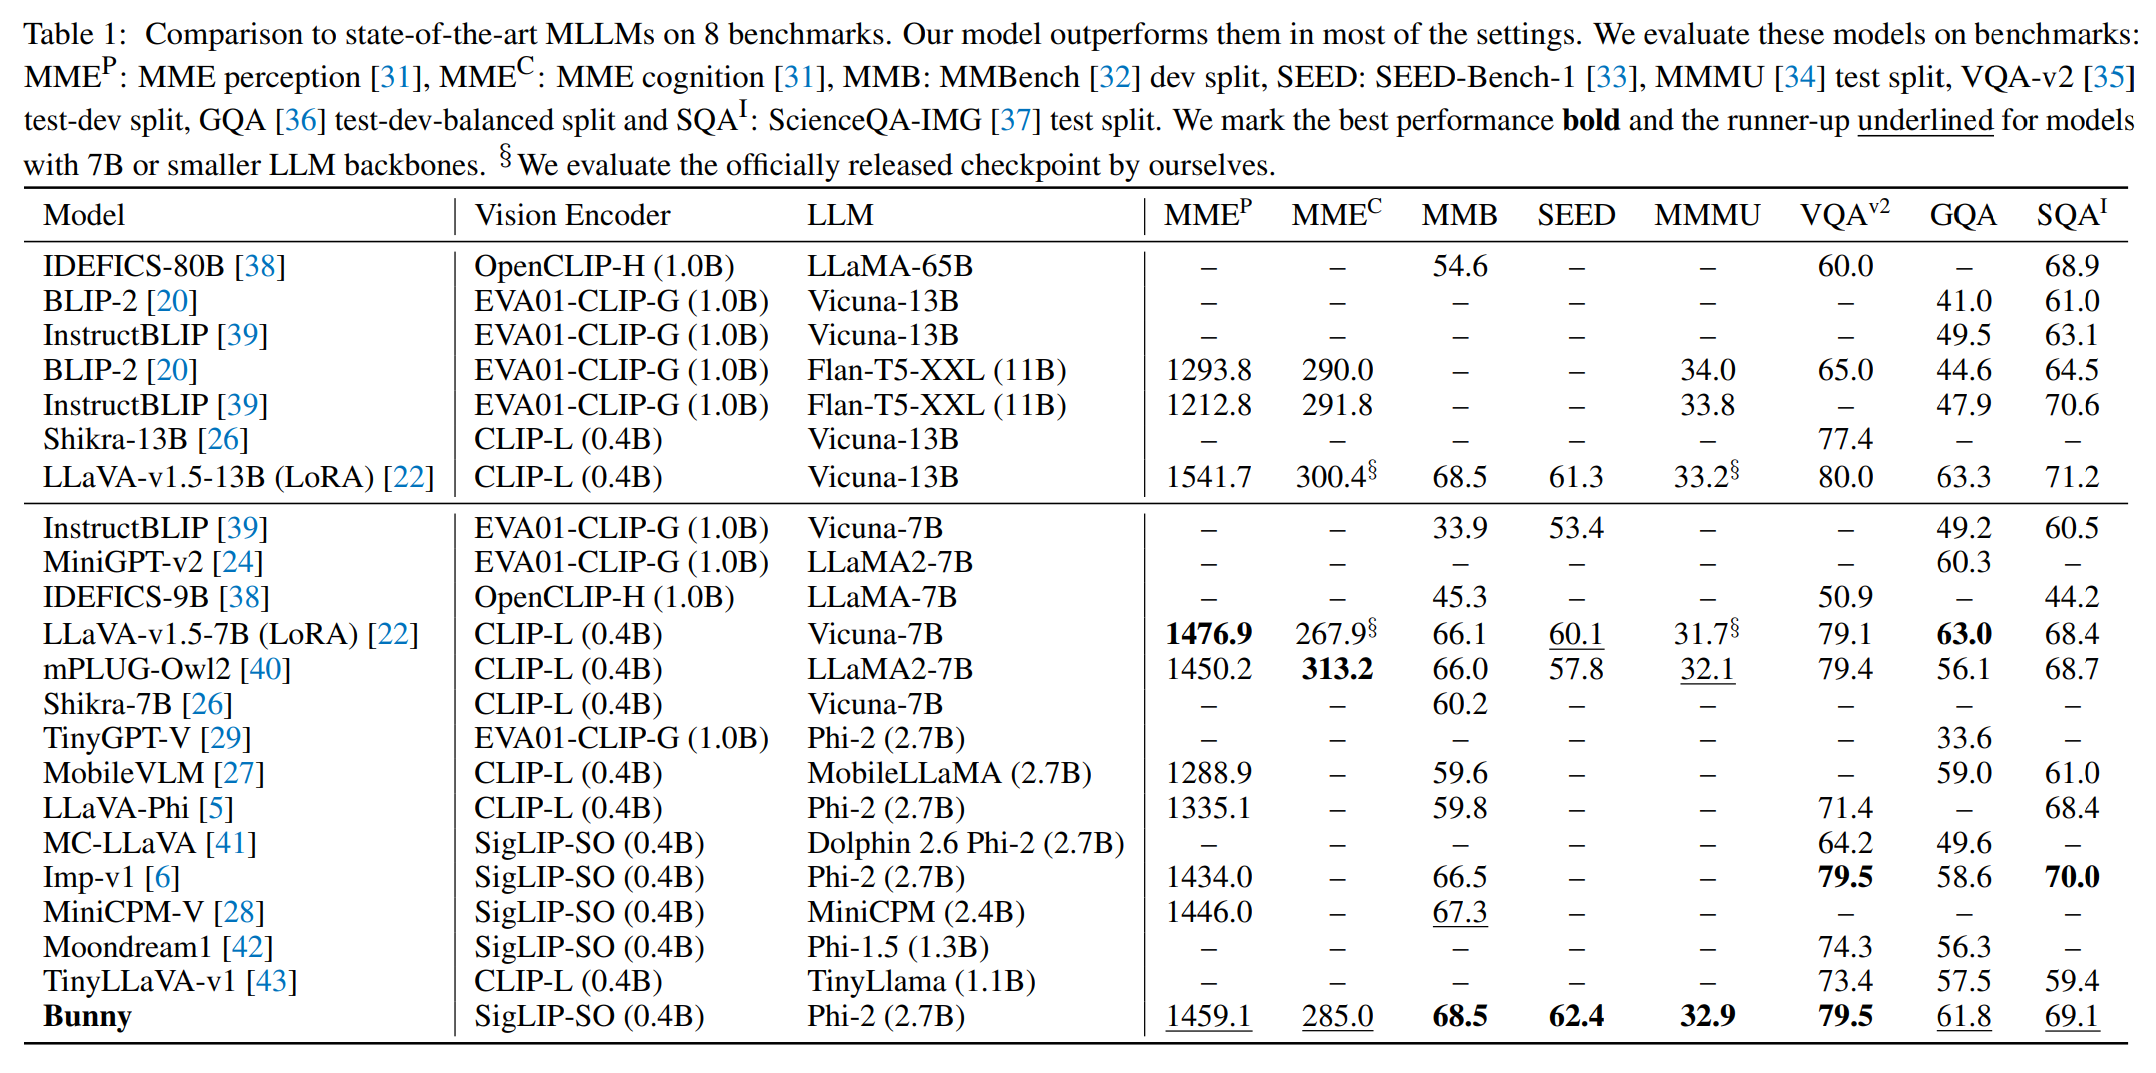
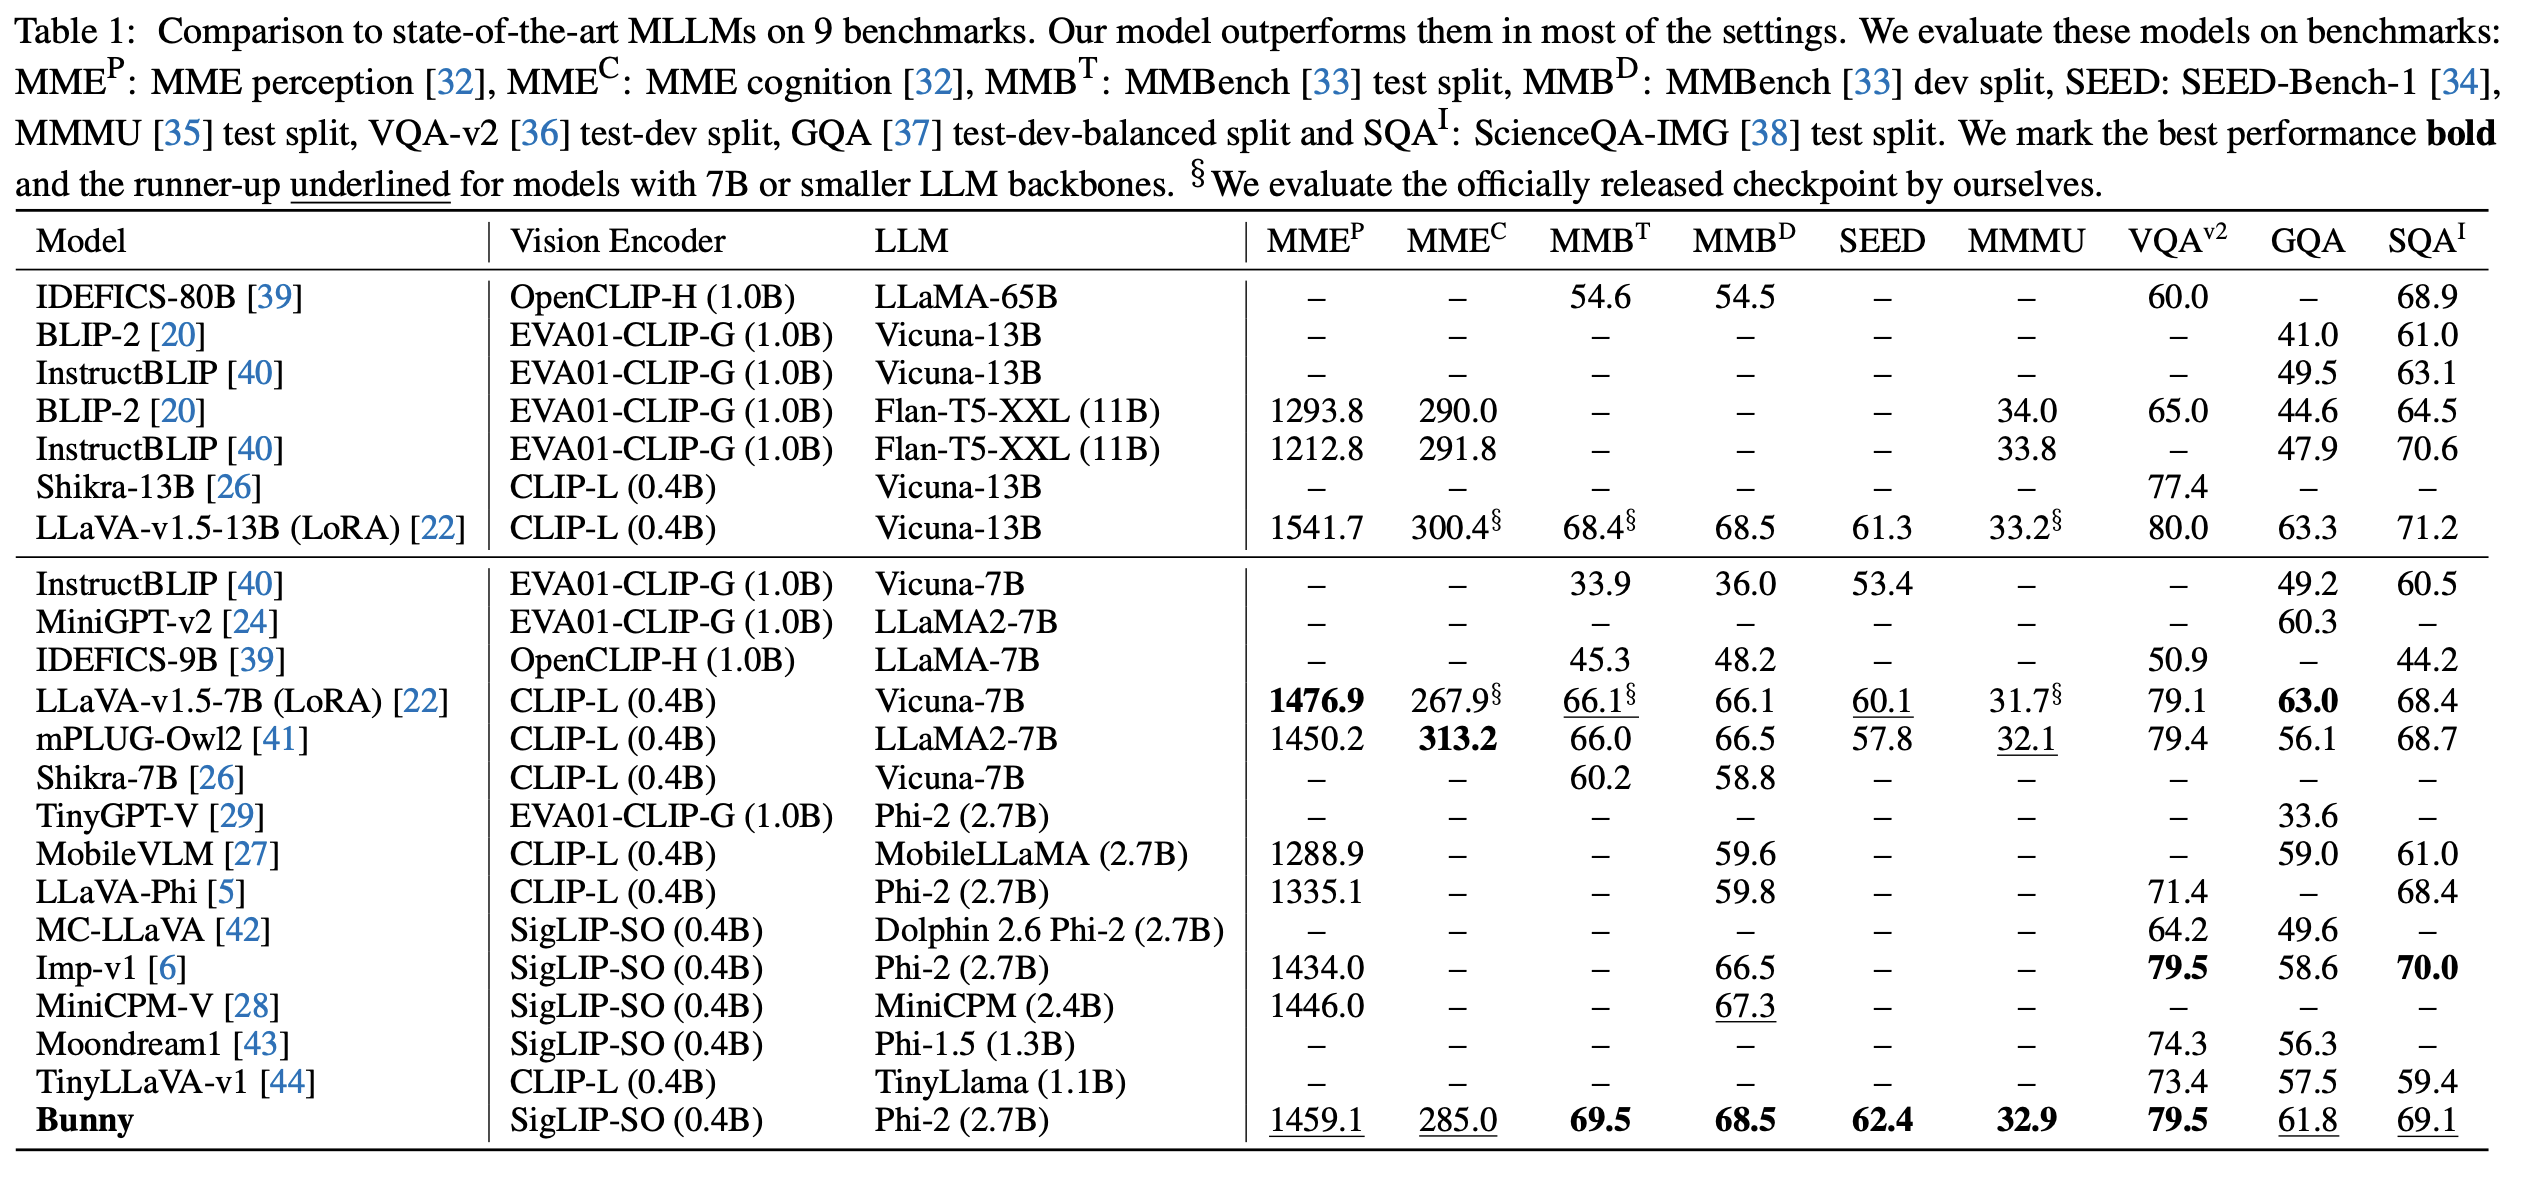
Refine readme

diff --git a/README.md b/README.md
@@ -14,31 +14,31 @@ Bunny is a family of lightweight but powerful multimodal models. It offers multi
 
 * ⏳ Bunny training data.
 * ⏳ Bunny technical report.
-* 2024.2.7 🔥  **Bunny is out!** Bunny-3B built upon SigLIP and Phi-2 outperforms the state-of-the-art MLLMs, not only in comparison with models of similar size but also against larger MLLM frameworks (7B), and even achieves performance on par with 13B models!
+* 2024.2.7 🔥  **Bunny is out!** Bunny-3B built upon SigLIP and Phi-2 outperforms the state-of-the-art MLLMs, not only in comparison with models of similar size but also against larger MLLM frameworks (7B), and even achieves performance on par with LLaVA-13B!
 
 ## Model Zoo
 
 * Evaluation
   
-| Checkpoint                                                   | MME$`^\text{P}`$ | MME$`^\text{C}`$ | MMB  | SEED | MMMU | VQA$`^\text{v2}`$ | GQA  | SQA$`^\text{I}`$ |
-| ------------------------------------------------------------ | --------- | --------- | ---- | ---- | ---- | ------ | ---- | ------------- |
-| [bunny-phi-1.5-eva-lora](https://huggingface.co/BoyaWu10/bunny-phi-1.5-eva-lora) | 1209.5    | 232.1     | 56.7 | 55.0 | 28.9 | 76.2   | 59.8 | 57.0          |
-| [bunny-stablelm-2-eva-lora](https://huggingface.co/BoyaWu10/bunny-stablelm-2-eva-lora) | 1301.0    | 235.0     | 56.4 | 55.3 | 29.4 | 74.6   | 56.7 | 60.0          |
-| [bunny-phi-2-eva-lora](https://huggingface.co/BoyaWu10/bunny-phi-2-eva-lora) | 1329.0    | 257.5     | 66.6 | 60.7 | 32.2 | 77.8   | 61.0 | 68.1          |
-| [bunny-phi-1.5-siglip-lora](https://huggingface.co/BoyaWu10/bunny-phi-1.5-siglip-lora) | 1237.0    | 231.1     | 58.1 | 56.4 | 28.9 | 77.6   | 60.4 | 61.8          |
-| [bunny-stablelm-2-siglip-lora](https://huggingface.co/BoyaWu10/bunny-stablelm-2-siglip-lora) | 1366.8    | 236.1     | 62.8 | 58.8 | 29.8 | 78.9   | 60.9 | 61.1          |
-| **[bunny-phi-2-siglip-lora](https://huggingface.co/BAAI/bunny-phi-2-siglip-lora)** | 1459.1    | 285.0     | 68.5 | 62.4 | 32.9 | 79.5   | 61.8 | 69.1          |
+| Checkpoint                                                                                   | MME$`^\text{P}`$ | MME$`^\text{C}`$ | MMB$`^\text{T}`$  | MMB$`^\text{D}`$  | SEED | MMMU | VQA$`^\text{v2}`$ | GQA  | SQA$`^\text{I}`$ |
+| -------------------------------------------------------------------------------------------- | :--------------: | :--------------: | :---------------: | :---------------: | :--: | :--: | :---------------: | :--: | :--------------: |
+| [bunny-phi-1.5-eva-lora](https://huggingface.co/BoyaWu10/bunny-phi-1.5-eva-lora)             | 1209.5           | 232.1            | 59.0              | 56.7              | 55.0 | 28.9 | 76.2              | 59.8 | 57.0             |
+| [bunny-stablelm-2-eva-lora](https://huggingface.co/BoyaWu10/bunny-stablelm-2-eva-lora)       | 1301.0           | 235.0            | 58.4              | 56.4              | 55.3 | 29.4 | 74.6              | 56.7 | 60.0             |
+| [bunny-phi-2-eva-lora](https://huggingface.co/BoyaWu10/bunny-phi-2-eva-lora)                 | 1329.0           | 257.5            | 66.4              | 66.6              | 60.7 | 32.2 | 77.8              | 61.0 | 68.1             |
+| [bunny-phi-1.5-siglip-lora](https://huggingface.co/BoyaWu10/bunny-phi-1.5-siglip-lora)       | 1237.0           | 231.1            | 61.3              | 58.1              | 56.4 | 28.9 | 77.6              | 60.4 | 61.8             |
+| [bunny-stablelm-2-siglip-lora](https://huggingface.co/BoyaWu10/bunny-stablelm-2-siglip-lora) | 1366.8           | 236.1            | 65.1              | 62.8              | 58.8 | 29.8 | 78.9              | 60.9 | 61.1             |
+| **[bunny-phi-2-siglip-lora](https://huggingface.co/BAAI/bunny-phi-2-siglip-lora)**           | 1459.1           | 285.0            | 69.5              | 68.5              | 62.4 | 32.9 | 79.5              | 61.8 | 69.1             |
 
 * Training details
   
-| Checkpoint                                                   | Vision Encoder                                               | LLM                                                          | Pretrain lr | Pretrain weights                                             |
-| ------------------------------------------------------------ | ------------------------------------------------------------ | ------------------------------------------------------------ | ----------- | ------------------------------------------------------------ |
-| [bunny-phi-1.5-eva-lora](https://huggingface.co/BoyaWu10/bunny-phi-1.5-eva-lora) | [EVA02_CLIP_L_336_psz14_s6B](https://huggingface.co/QuanSun/EVA-CLIP/blob/main/EVA02_CLIP_L_336_psz14_s6B.pt) | [susnato/phi-1_5_dev](https://huggingface.co/susnato/phi-1_5_dev) | 1e-3        | [bunny-pretrain-phi-1.5-eva](https://huggingface.co/BoyaWu10/bunny-pretrain-phi-1.5-eva) |
-| [bunny-stablelm-2-eva-lora](https://huggingface.co/BoyaWu10/bunny-stablelm-2-eva-lora) | [EVA02_CLIP_L_336_psz14_s6B](https://huggingface.co/QuanSun/EVA-CLIP/blob/main/EVA02_CLIP_L_336_psz14_s6B.pt) | [stabilityai/stablelm-2-1_6b](https://huggingface.co/stabilityai/stablelm-2-1_6b) | 1e-3        | [bunny-pretrain-stablelm-2-eva](https://huggingface.co/BoyaWu10/bunny-pretrain-stablelm-2-eva) |
-| [bunny-phi-2-eva-lora](https://huggingface.co/BoyaWu10/bunny-phi-2-eva-lora) | [EVA02_CLIP_L_336_psz14_s6B](https://huggingface.co/QuanSun/EVA-CLIP/blob/main/EVA02_CLIP_L_336_psz14_s6B.pt) | [susnato/phi-2](https://huggingface.co/susnato/phi-2)        | 5e-5        | [bunny-pretrain-phi-2-eva](https://huggingface.co/BoyaWu10/bunny-pretrain-phi-2-eva) |
-| [bunny-phi-1.5-siglip-lora](https://huggingface.co/BoyaWu10/bunny-phi-1.5-siglip-lora) | [siglip-so400m-patch14-384](https://huggingface.co/google/siglip-so400m-patch14-384) | [susnato/phi-1_5_dev](https://huggingface.co/susnato/phi-1_5_dev) | 5e-4        | [bunny-pretrain-phi-1.5-siglip](https://huggingface.co/BoyaWu10/bunny-pretrain-phi-1.5-siglip) |
-| [bunny-stablelm-2-siglip-lora](https://huggingface.co/BoyaWu10/bunny-stablelm-2-siglip-lora) | [siglip-so400m-patch14-384](https://huggingface.co/google/siglip-so400m-patch14-384) | [stabilityai/stablelm-2-1_6b](https://huggingface.co/stabilityai/stablelm-2-1_6b) | 5e-4        | [bunny-pretrain-stablelm-2-siglip](https://huggingface.co/BoyaWu10/bunny-pretrain-stablelm-2-siglip) |
-| **[bunny-phi-2-siglip-lora](https://huggingface.co/BAAI/bunny-phi-2-siglip-lora)** | [siglip-so400m-patch14-384](https://huggingface.co/google/siglip-so400m-patch14-384) | [susnato/phi-2](https://huggingface.co/susnato/phi-2)        | 5e-4        | [bunny-pretrain-phi-2-siglip](https://huggingface.co/BAAI/bunny-pretrain-phi-2-siglip) |
+| Checkpoint                                                                                   | Vision Encoder                                                                                                | LLM                                                                               | Pretrain lr | Pretrain weights                                                                                     |
+| -------------------------------------------------------------------------------------------- | ------------------------------------------------------------------------------------------------------------- | --------------------------------------------------------------------------------- | :---------: | ---------------------------------------------------------------------------------------------------- |
+| [bunny-phi-1.5-eva-lora](https://huggingface.co/BoyaWu10/bunny-phi-1.5-eva-lora)             | [EVA02_CLIP_L_336_psz14_s6B](https://huggingface.co/QuanSun/EVA-CLIP/blob/main/EVA02_CLIP_L_336_psz14_s6B.pt) | [susnato/phi-1_5_dev](https://huggingface.co/susnato/phi-1_5_dev)                 | 1e-3        | [bunny-pretrain-phi-1.5-eva](https://huggingface.co/BoyaWu10/bunny-pretrain-phi-1.5-eva)             |
+| [bunny-stablelm-2-eva-lora](https://huggingface.co/BoyaWu10/bunny-stablelm-2-eva-lora)       | [EVA02_CLIP_L_336_psz14_s6B](https://huggingface.co/QuanSun/EVA-CLIP/blob/main/EVA02_CLIP_L_336_psz14_s6B.pt) | [stabilityai/stablelm-2-1_6b](https://huggingface.co/stabilityai/stablelm-2-1_6b) | 1e-3        | [bunny-pretrain-stablelm-2-eva](https://huggingface.co/BoyaWu10/bunny-pretrain-stablelm-2-eva)       |
+| [bunny-phi-2-eva-lora](https://huggingface.co/BoyaWu10/bunny-phi-2-eva-lora)                 | [EVA02_CLIP_L_336_psz14_s6B](https://huggingface.co/QuanSun/EVA-CLIP/blob/main/EVA02_CLIP_L_336_psz14_s6B.pt) | [susnato/phi-2](https://huggingface.co/susnato/phi-2)                             | 5e-5        | [bunny-pretrain-phi-2-eva](https://huggingface.co/BoyaWu10/bunny-pretrain-phi-2-eva)                 |
+| [bunny-phi-1.5-siglip-lora](https://huggingface.co/BoyaWu10/bunny-phi-1.5-siglip-lora)       | [siglip-so400m-patch14-384](https://huggingface.co/google/siglip-so400m-patch14-384)                          | [susnato/phi-1_5_dev](https://huggingface.co/susnato/phi-1_5_dev)                 | 5e-4        | [bunny-pretrain-phi-1.5-siglip](https://huggingface.co/BoyaWu10/bunny-pretrain-phi-1.5-siglip)       |
+| [bunny-stablelm-2-siglip-lora](https://huggingface.co/BoyaWu10/bunny-stablelm-2-siglip-lora) | [siglip-so400m-patch14-384](https://huggingface.co/google/siglip-so400m-patch14-384)                          | [stabilityai/stablelm-2-1_6b](https://huggingface.co/stabilityai/stablelm-2-1_6b) | 5e-4        | [bunny-pretrain-stablelm-2-siglip](https://huggingface.co/BoyaWu10/bunny-pretrain-stablelm-2-siglip) |
+| **[bunny-phi-2-siglip-lora](https://huggingface.co/BAAI/bunny-phi-2-siglip-lora)**           | [siglip-so400m-patch14-384](https://huggingface.co/google/siglip-so400m-patch14-384)                          | [susnato/phi-2](https://huggingface.co/susnato/phi-2)                             | 5e-4        | [bunny-pretrain-phi-2-siglip](https://huggingface.co/BAAI/bunny-pretrain-phi-2-siglip)               |
 
 ## Install
 
